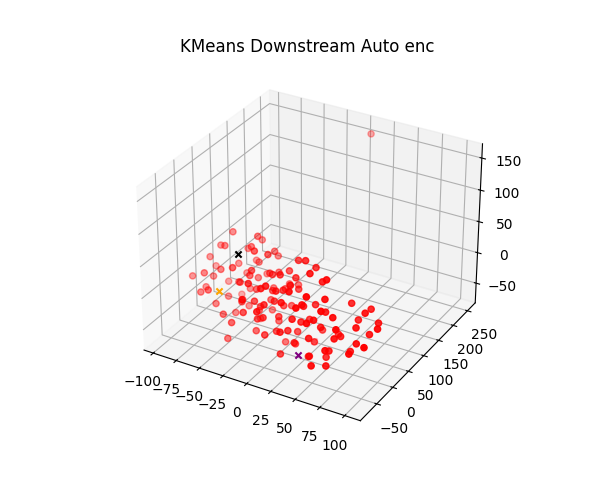
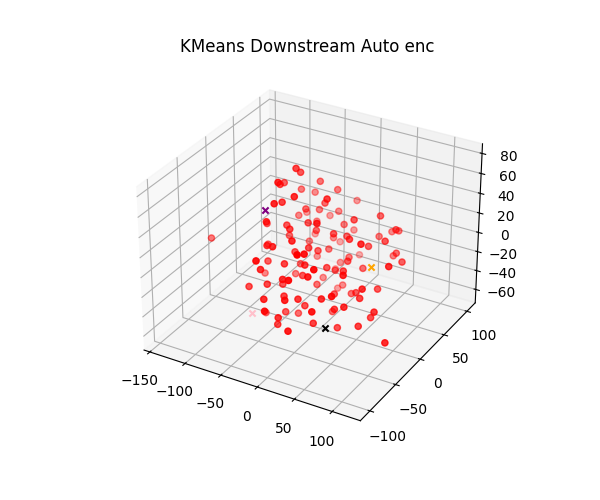
changed hyper params cous underfitting threw dens bottleneck

diff --git a/util/testingUtils/test_model.py b/util/testingUtils/test_model.py
@@ -19,7 +19,7 @@ from util.transformations import Crop_top, TempStride, Crop, Normalize
 
 relative_path = ""  # "../"
 
-batch_size = 8
+batch_size = 32
 save_path = relative_path + 'data/openEDS/openEDS.npy'
 root = relative_path + 'data/openEDS/openEDS'
 Out_folder = 'content/saved_outputs/'
@@ -30,24 +30,35 @@ def load_model(model_file, legacy=False, remove_decoder=False):
     model_dir = model_file[:model_file.rfind('/')]
     model_file_name = model_file[model_file.rfind('/') + 1:]
 
+    transformations = [
+        Crop_top(20),  # centers the image better
+        Crop((256, 256)),
+        Normalize(76.3, 41.7)
+    ]
+
     check_loader = CheckpointUtil(model_dir)
-    arc_filename_enc = relative_path + "content/Arc/model_3_legacy.csv"
-    arc_filename_dec = relative_path + "content/Arc/model_3_reverse_legacy.csv"
 
-    layerfac = LayerFactory()
 
-    layerfac.read_from_file(arc_filename_enc, full_block_res=True, res_interval=2)
-    layers_enc = layerfac.generate_layer_array()
+    '''
+        model, optimizer = load_auto_encoder(arc_filename_enc, arc_filename_dec, 216,
+                                         216, lr, torch.optim.Adam, False,
+                                         2, 1e-6)
+    '''
 
-    layerfac.read_from_file(arc_filename_dec, full_block_res=True, res_interval=2)
-    layers_dec = layerfac.generate_layer_array()
+    lay_fac = LayerFactory()
+    lay_fac.read_from_file("content/Arc/" + "model_3_v3_reverse.csv", full_block_res=True, res_interval=2)
+    layers_dec = lay_fac.generate_layer_array()
 
-    model = EncoderDecoder(layers_enc, layers_dec, 216, 216, legacy=legacy,
-                           remove_decoder=remove_decoder)
+    lay_fac.read_from_file("content/Arc/" + "model_3_v2.csv", full_block_res=True, res_interval=2)
+    layers_enc = lay_fac.generate_layer_array()
+
+    model = EncoderDecoder(layers_enc, layers_dec, 216, 216,
+                           dil_factors=(1, 2, 2), lin_bottleneck=True, lin_bottleneck_layers=3,
+                           lin_bottleneck_channels=(216 * 8 * 8, 1000, 32 * 8 * 8), stream_buffer=False, remove_decoder=remove_decoder)
 
     optimizer = torch.optim.Adam(
         [params for params in model.parameters() if params.requires_grad],
-        lr=0.0002,
+        lr=0.001,
         weight_decay=1e-6,
     )
     return check_loader.load_checkpoint(model=model, optimizer=optimizer, check_point_name=model_file_name)
@@ -66,7 +77,7 @@ def plot_test(model, data_loader, save=False):
             batch_one = batch[x].numpy().astype(np.float32)
 
             auto_encoded_output_one = auto_encoded_output[x].numpy().astype(np.float32)
-            for i in range(60):
+            for i in range(6):
                 frame_a = batch_one[:, i, :, :]
                 frame_b = auto_encoded_output_one[:, i, :, :]
                 frame_a = np.reshape(frame_a, (256, 256))
@@ -141,7 +152,7 @@ def main():
 
     loader = OpenEDSLoader(root, batch_size=batch_size, shuffle=True, max_videos=None, save_path=save_path,
                            save_anyway=False,
-                           transformations=transformations, sim_clr=False)
+                           transformations=transformations, sim_clr=False, split_frames=6)
 
     train_loader, test_loader, _ = loader.get_loaders()
     if mode == "kmeans":

diff --git a/models/cleandup/EncoderDecoder.py b/models/cleandup/EncoderDecoder.py
@@ -190,19 +190,18 @@ def test():
     print(bottlneck_out.shape, x1.shape, x2.shape)
    
     '''
+    reltive_path = "../../"
 
-    relative_path = "../../content/Arc/"
     lay_fac = LayerFactory()
-    lay_fac.read_from_file(relative_path + "model_3_v3_reverse.csv", full_block_res=True, res_interval=2)
+    lay_fac.read_from_file(reltive_path + "content/Arc/" + "model_3_v3_reverse.csv", full_block_res=True, res_interval=2)
     layers_dec = lay_fac.generate_layer_array()
 
-    lay_fac.read_from_file(relative_path + "model_3_v2.csv", full_block_res=True, res_interval=2)
+    lay_fac.read_from_file(reltive_path + "content/Arc/" + "model_4.csv", full_block_res=True, res_interval=2)
     layers_enc = lay_fac.generate_layer_array()
-    print(layers_enc)
 
-    model = EncoderDecoder(layers_enc, layers_dec, 216, 216,
+    model = EncoderDecoder(layers_enc, layers_dec, 400, 400,
                            dil_factors=(1, 2, 2), lin_bottleneck=True, lin_bottleneck_layers=3,
-                           lin_bottleneck_channels=(216*8*8, 1000, 32*8*8), stream_buffer=False)
+                           lin_bottleneck_channels=(400*8*8, 2000, 64*8*8), stream_buffer=False)
 
     #x = model(torch.randn(8, 1, 6, 256, 256))
     #print(x.shape)

diff --git a/models/cleandup/autoEncoderTrainer.py b/models/cleandup/autoEncoderTrainer.py
@@ -72,12 +72,12 @@ lay_fac = LayerFactory()
 lay_fac.read_from_file("content/Arc/" + "model_3_v3_reverse.csv", full_block_res=True, res_interval=2)
 layers_dec = lay_fac.generate_layer_array()
 
-lay_fac.read_from_file("content/Arc/"  + "model_3_v2.csv", full_block_res=True, res_interval=2)
+lay_fac.read_from_file("content/Arc/" + "model_4.csv", full_block_res=True, res_interval=2)
 layers_enc = lay_fac.generate_layer_array()
 
-model = EncoderDecoder(layers_enc, layers_dec, 216, 216,
+model = EncoderDecoder(layers_enc, layers_dec, 400, 400,
                        dil_factors=(1, 2, 2), lin_bottleneck=True, lin_bottleneck_layers=3,
-                       lin_bottleneck_channels=(216*8*8, 1000, 32*8*8), stream_buffer=False)
+                       lin_bottleneck_channels=(400*8*8, 2000, 64*8*8), stream_buffer=False)
 
 optimizer = torch.optim.Adam(
     [params for params in model.parameters() if params.requires_grad],
